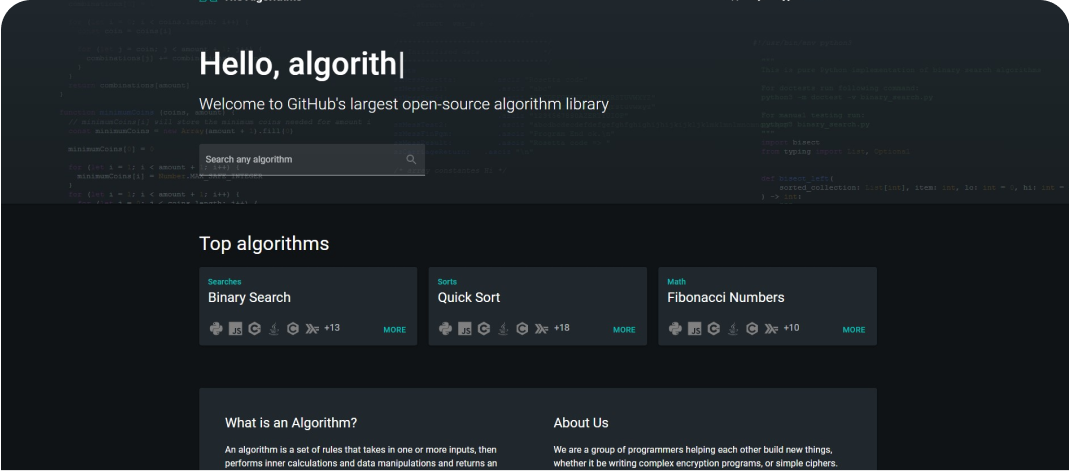
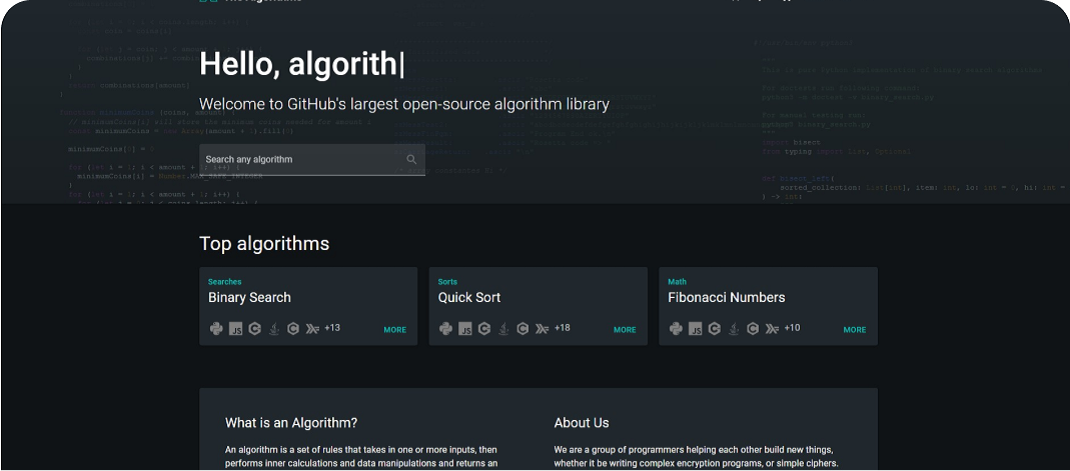
fixing partners issues

diff --git a/app/page.tsx b/app/page.tsx
@@ -1,5 +1,6 @@
 // 'use client'
 
+import Partners from "@/components/containers/Partners";
 import CursorHoverster from "@/components/cursor-hoverster";
 import { Icons } from "@/components/icons";
 import { buttonVariants } from "@/components/ui/button";
@@ -146,83 +147,7 @@ export default function IndexPage() {
       </section>
 
       {/* Partners */}
-      <section className="container mt-20 grid items-center justify-center gap-6 pb-8 pt-6 text-center md:py-10">
-        <div className="mx-auto flex max-w-[980px] flex-col items-center gap-2">
-          <h3 className="px-32 text-xl font-extrabold leading-tight tracking-tighter sm:text-2xl md:text-3xl lg:text-2xl">
-            Get to know our Community Partners
-          </h3>
-          <h2>Community Partners we highly value</h2>
-        </div>
-
-        <div className="mt-10 flex flex-row gap-32">
-          <div className="border-l-3 max-w-sm overflow-hidden rounded-lg bg-white shadow-md shadow-purple-300">
-            <Image className="w-full" src="/Dev-protocol-1.png" width={400} height={250} alt="" />
-            <div className="px-6 py-4">
-              <p className="text-base text-gray-700">
-                Dev Protocol is designed as a unique protocol to fairly evaluate OSS, which has been
-                economically undervalued for decades. It is built on the Ethereum blockchain and
-                brings economic value to all open source activities.
-              </p>
-            </div>
-            <div className="flex justify-end px-6 pb-2 pt-4">
-              <span className="w-fit-content font-inter text-14.0418 mb-0 mr-auto flex cursor-pointer gap-6 rounded border-2 border-solid border-black px-4 py-1 font-semibold text-black">
-                <Image
-                  src="/Arrow1.png"
-                  alt="arrow"
-                  width={15}
-                  height={18}
-                  className="my-auto flex items-center"
-                />
-                Read More
-              </span>
-            </div>
-          </div>
-
-          <div className="border-l-3 max-w-sm overflow-hidden rounded-lg bg-white shadow-md shadow-purple-300">
-            <Image className="w-full" src="/The-Algorithms-1.png" width={400} height={250} alt="" />
-            <div className="px-6 py-4">
-              <p className="text-base text-gray-700">
-                The Algorithms is an open source community for learning Data Structures & Algorithms
-                and their implementation in any Programming Language.
-              </p>
-            </div>
-            <div className="mt-10 flex justify-end px-6 pb-2 pt-4">
-              <span className="w-fit-content font-inter text-14.0418 mb-0 mr-auto flex cursor-pointer gap-6 rounded border-2 border-solid border-black px-4 py-1 font-semibold text-black">
-                <Image
-                  src="/Arrow1.png"
-                  alt="arrow"
-                  width={15}
-                  height={18}
-                  className="my-auto flex items-center"
-                />
-                Read More
-              </span>
-            </div>
-          </div>
-
-          <div className="border-l-3  max-w-sm overflow-hidden rounded-lg bg-white shadow-md shadow-purple-300">
-            <Image className="w-full" src="/Lumos-Labs-1.png" width={400} height={250} alt="Sunset in the mountains" />
-            <div className="px-6 py-4">
-              <p className="text-base text-gray-700">
-                Lumos labs is building a metaverse for builders and Web3 ecosystem enablers to share
-                opportunities to build scale-up.
-              </p>
-            </div>
-            <div className="mt-12 flex justify-end px-6 pb-2 pt-4">
-              <span className="w-fit-content font-inter text-14.0418 mb-0 mr-auto flex cursor-pointer gap-6 rounded border-2 border-solid border-black px-4 py-1 font-semibold text-black">
-                <Image
-                  src="/Arrow1.png"
-                  alt="arrow"
-                  width={15}
-                  height={18}
-                  className="my-auto flex items-center"
-                />
-                Read More
-              </span>
-            </div>
-          </div>
-        </div>
-      </section>
+      <Partners />
 
       {/* Features */}
       {/* <section className="container grid items-center gap-6 pb-8 pt-6 md:py-10 justify-center text-center">

diff --git a/components/containers/Partners.tsx b/components/containers/Partners.tsx
@@ -1,0 +1,64 @@
+import Image from "next/image";
+import Link from "next/link";
+import { FC } from "react";
+
+interface PartnersProps {}
+
+const data = [
+  {
+    img: "/Dev-protocol-1.png",
+    para: "Dev Protocol is designed as a unique protocol to fairly evaluate OSS, which has been economically undervalued for decades. It is built on the Ethereum blockchain and brings economic value to all open source activities.",
+    url: "",
+  },
+  {
+    img: "/The-Algorithms-1.png",
+    para: "The Algorithms is an open source community for learning Data Structures & Algorithms and their implementation in any Programming Language.",
+    url: "",
+  },
+  {
+    img: "/Lumos-Labs-1.png",
+    para: "Lumos labs is building a metaverse for builders and Web3 ecosystem enablers to share opportunities to build scale-up.",
+    url: "",
+  },
+];
+
+const Partners: FC<PartnersProps> = ({}) => {
+  return (
+    <section className="container mt-20 grid items-center justify-center gap-6 pb-8 pt-6  md:py-10">
+      <div className="mx-auto flex max-w-[980px] flex-col items-center gap-2">
+        <h3 className="px-32 text-xl font-extrabold leading-tight tracking-tighter sm:text-2xl md:text-3xl lg:text-2xl">
+          Get to know our Community Partners
+        </h3>
+        <h2>Community Partners we highly value</h2>
+      </div>
+
+      <div className="mt-10 flex flex-wrap justify-center gap-24">
+  {data.map(({ img, para, url }, index) => (
+    <div key={index} className="flex max-w-xs flex-col rounded-lg bg-white shadow-md shadow-purple-300">
+      <Image className="w-full" src={img} width={400} height={250} alt="" />
+      <div className="grow px-6 py-4">
+        <p className="text-justify text-sm text-gray-700">
+          {para}
+        </p>
+      </div>
+      <div className="flex px-6 pt-4">
+        <Link href={url} className="font-inter text-14.0418 mb-2 flex cursor-pointer gap-6 rounded border-2 border-solid border-black px-4 py-1 font-semibold text-black">
+          <Image
+            src="/Arrow1.png"
+            alt="arrow"
+            width={15}
+            height={18}
+            className="my-auto flex items-center"
+          />
+          Read More
+        </Link>
+      </div>
+    </div>
+  ))}
+</div>
+
+    </section>
+  );
+};
+
+export default Partners;